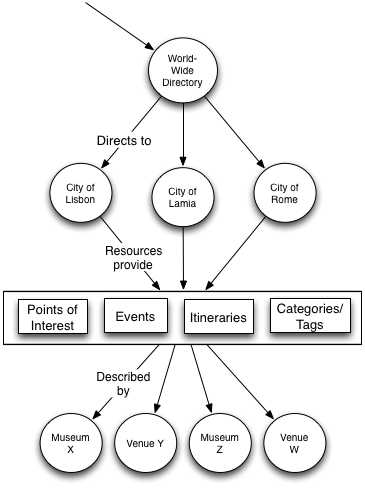
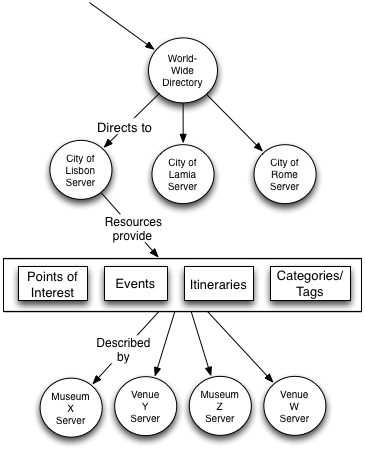
changed delegation image and minor fixes

diff --git a/main.tex b/main.tex
@@ -254,7 +254,7 @@ The \textbf{Itineraries} is somewhat more complex. It is defined by using the \t
 
 The \textbf{Categories/Tags} are equal in nature, but a Category provides a recursive format that the Tags do not. Both borrow from the W3C POI Data Model, but their format is more specific to the needs of the API, rather than following the mentioned model. So, a Category simply follows the \textit{POIType} entity and allows recursiveness and a Tag borrows its properties from the \textit{POIBaseType} to specify a language and value.
 
-At last, most of the terms used in the POITermType are the suggestions made by the working group itself. However, we've added five more terms regarding price, waiting time, occupation and accessibility information for handicapped people. Such terms are identified as X-citysdk/price, X-citysdk/waiting-time, X-citysdk/occupation and X-citysdk/accessibility-textual and X-citysdk/accessibility-properties, respectively.
+At last, most of the terms used in the \textit{POITermType} are the suggestions made by the working group itself. However, we've added five more terms regarding price, waiting time, occupation and accessibility information for handicapped people. Such terms are identified as X-citysdk/price, X-citysdk/waiting-time, X-citysdk/occupation and X-citysdk/accessibility-textual and X-citysdk/accessibility-properties, respectively.
 
 The presented models are used in the message format of the API, in the format of \ac{JSON}.
 
@@ -269,7 +269,7 @@ This constraint states that a client interacts with a network application entire
 \begin{enumerate}
 \item From the entry URL - the only URL that the client needs to know - we present the resources made available by the visited server;
 \item Each of the Data Models has an identification (specified by a base URL and ID) that allows to fetch information about that specific model;
-\item The POIs, Events and Itineraries can be further described by using a \textit{described-by} (in the links property) which indicates an entry point to another server, which can provide further data on that specific entity.
+\item The \acp{POI}, Events and Itineraries can be further described by using a \textit{described-by} (in the links property) which indicates an entry point to another server, which can provide further data on that specific entity.
 \end{enumerate}
 
 The mentioned resources indicate to the client, which models and which parameters are available in a given server. These models can be presented by the key-values found in the response message, e.g., if a \textit{find-poi} key is found, then the server supports \acp{POI}. As for the allowed searching parameters we have used the URI Template RFC~\cite{uri-template}. This way, we allowed a simple yet descriptive manner to indicate which parameters and which data is available and can be fetched.
